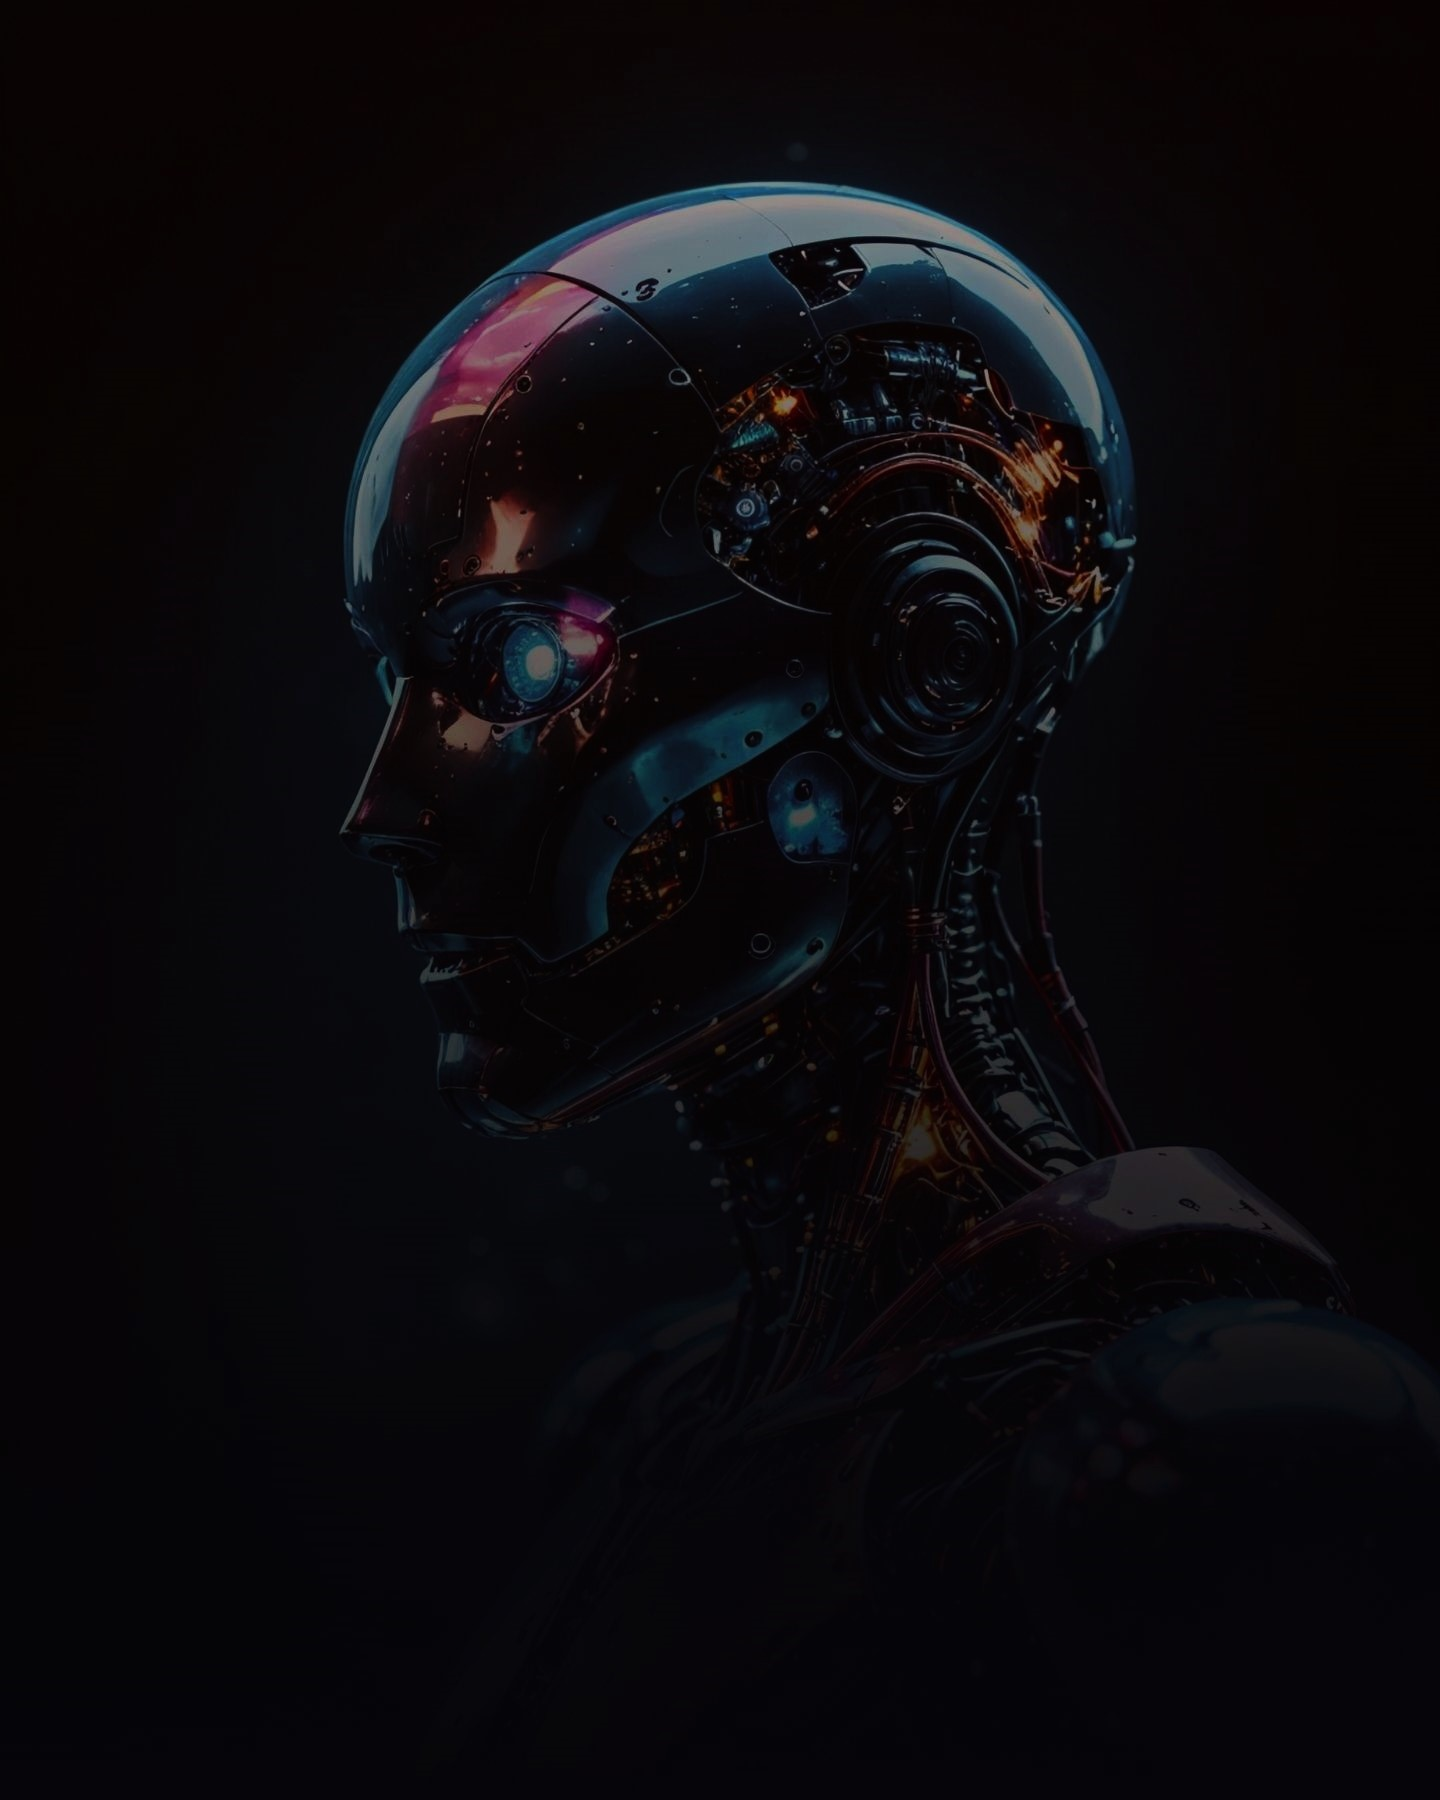
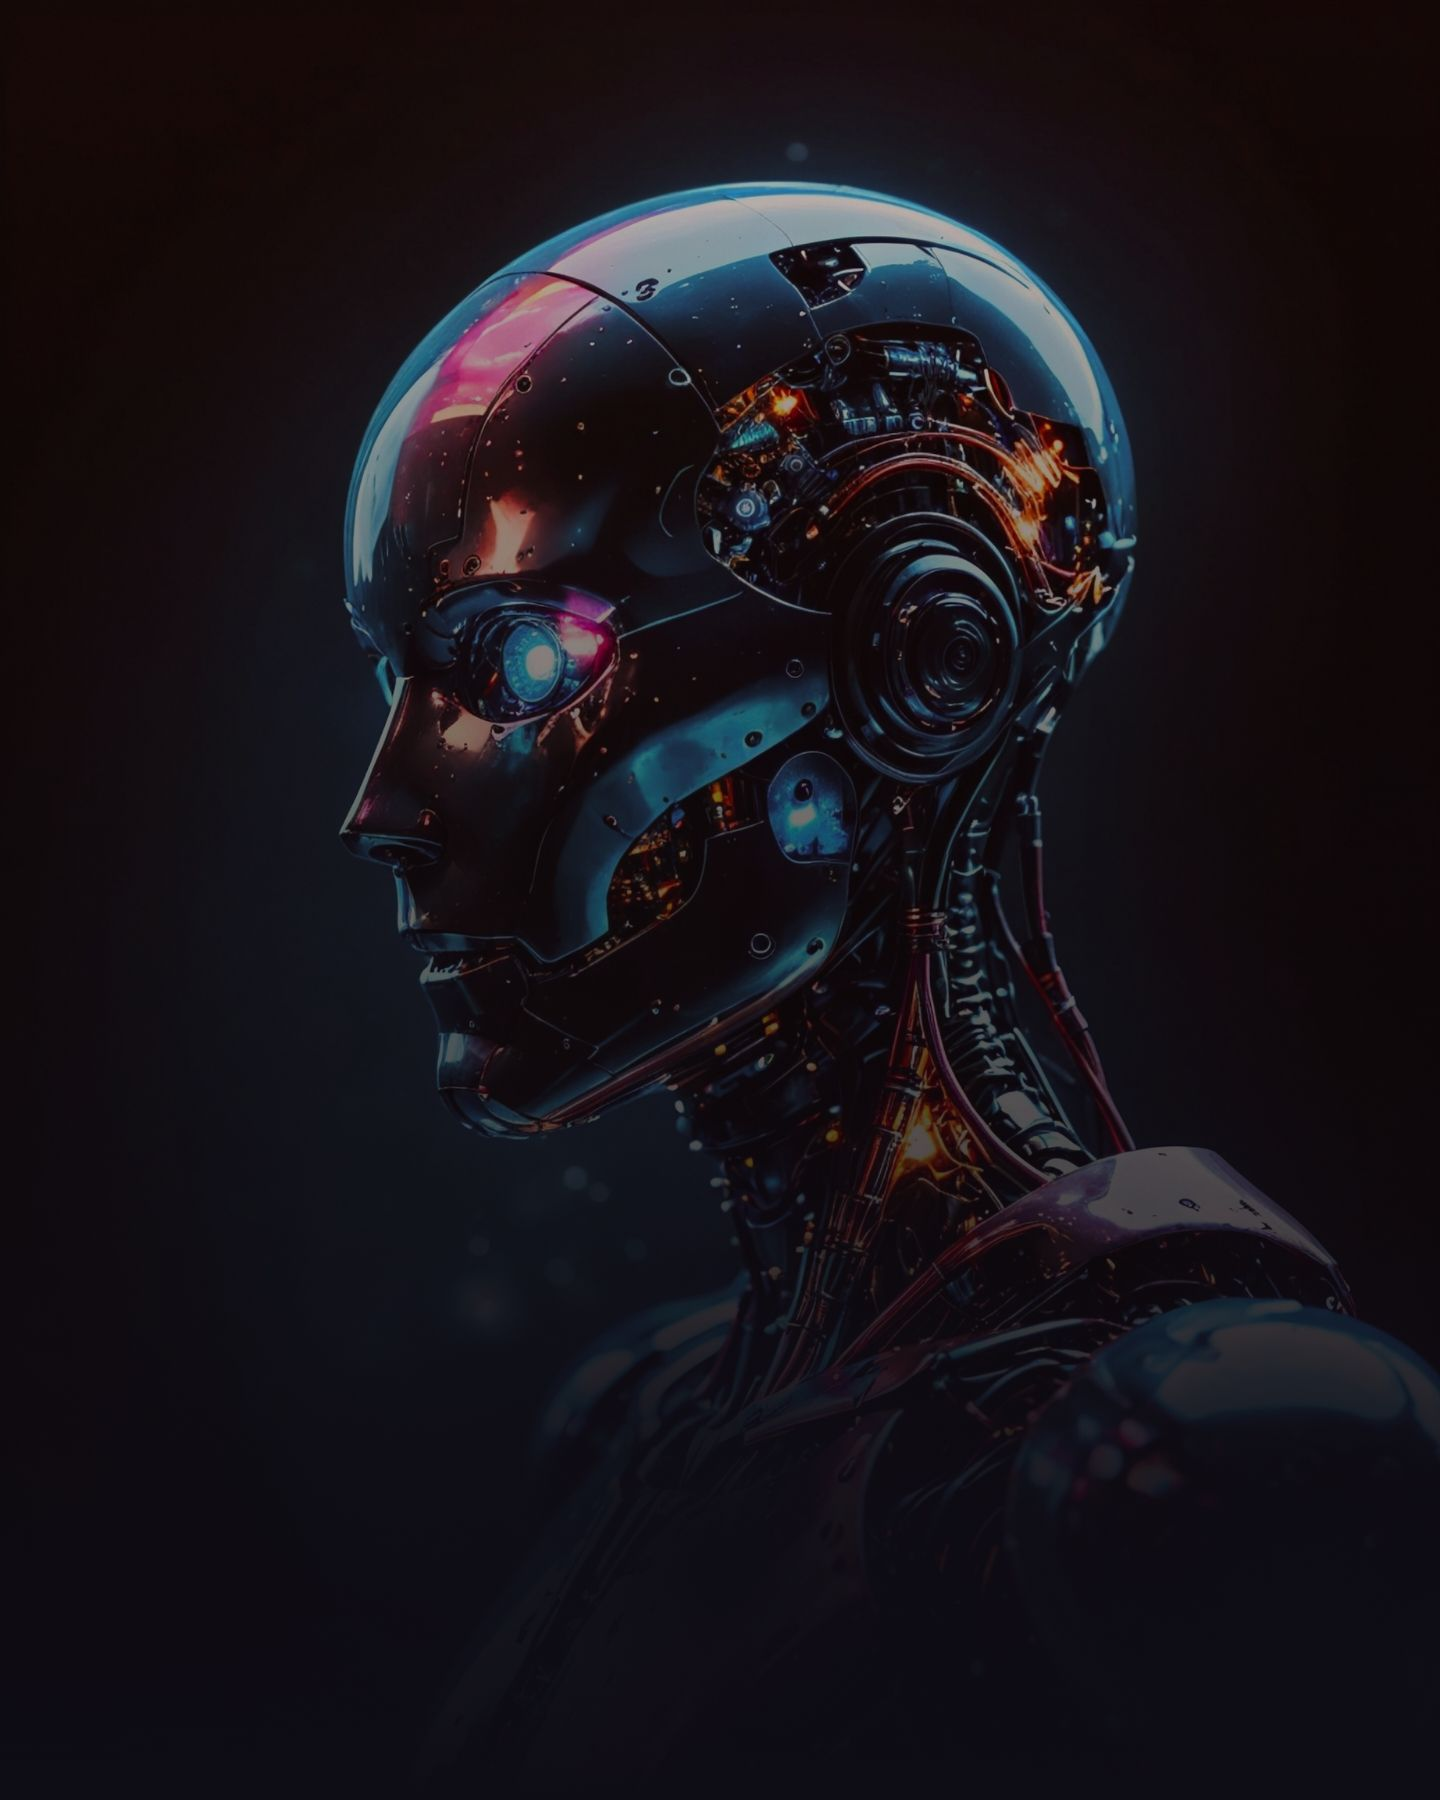
Project Bg Change 2

diff --git a/src/components/ui/Lamp.jsx b/src/components/ui/Lamp.jsx
@@ -22,7 +22,7 @@ const LampContainer = ({ children, className }) => {
                     style={{
                         backgroundImage: `conic-gradient(var(--conic-position), var(--tw-gradient-stops))`,
                     }}
-                    className="absolute inset-auto right-1/2 h-56 overflow-visible w-[30rem] bg-gradient-conic from-purple-500 via-transparent to-transparent text-white [--conic-position:from_70deg_at_center_top]"
+                    className="absolute inset-auto right-1/2 h-56 overflow-visible w-[30rem] bg-gradient-conic from-[#37B3BF] via-transparent to-transparent text-white [--conic-position:from_70deg_at_center_top]"
                 >
                     <div className="absolute  w-[100%] left-0 bg-slate-950 h-40 bottom-0 z-20 [mask-image:linear-gradient(to_top,white,transparent)]" />
                     <div className="absolute  w-40 h-[100%] left-0 bg-slate-950  bottom-0 z-20 [mask-image:linear-gradient(to_right,white,transparent)]" />
@@ -38,14 +38,14 @@ const LampContainer = ({ children, className }) => {
                     style={{
                         backgroundImage: `conic-gradient(var(--conic-position), var(--tw-gradient-stops))`,
                     }}
-                    className="absolute inset-auto left-1/2 h-56 w-[30rem] bg-gradient-conic from-transparent via-transparent to-purple-500 text-white [--conic-position:from_290deg_at_center_top]"
+                    className="absolute inset-auto left-1/2 h-56 w-[30rem] bg-gradient-conic from-transparent via-transparent to-[#37B3BF] text-white [--conic-position:from_290deg_at_center_top]"
                 >
                     <div className="absolute  w-40 h-[100%] right-0 bg-slate-950  bottom-0 z-20 [mask-image:linear-gradient(to_left,white,transparent)]" />
                     <div className="absolute  w-[100%] right-0 bg-slate-950 h-40 bottom-0 z-20 [mask-image:linear-gradient(to_top,white,transparent)]" />
                 </motion.div>
                 <div className="absolute top-1/2 h-48 w-full translate-y-12 scale-x-150 bg-slate-950 blur-2xl"></div>
                 <div className="absolute top-1/2 z-50 h-48 w-full bg-transparent opacity-10 backdrop-blur-md"></div>
-                <div className="absolute inset-auto z-50 h-36 w-[28rem] -translate-y-1/2 rounded-full bg-purple-500 opacity-50 blur-3xl"></div>
+                <div className="absolute inset-auto z-50 h-36 w-[28rem] -translate-y-1/2 rounded-full bg-[#37B3BF] opacity-50 blur-3xl"></div>
                 <motion.div
                     initial={{ width: "8rem" }}
                     whileInView={{ width: "16rem" }}
@@ -54,7 +54,7 @@ const LampContainer = ({ children, className }) => {
                         duration: 0.8,
                         ease: "easeInOut",
                     }}
-                    className="absolute inset-auto z-30 h-36 w-64 -translate-y-[6rem] rounded-full bg-purple-400 blur-2xl"
+                    className="absolute inset-auto z-30 h-36 w-64 -translate-y-[6rem] rounded-full bg-[#43b7c1] blur-2xl"
                 ></motion.div>
                 <motion.div
                     initial={{ width: "15rem" }}
@@ -64,7 +64,7 @@ const LampContainer = ({ children, className }) => {
                         duration: 0.8,
                         ease: "easeInOut",
                     }}
-                    className="absolute inset-auto z-50 h-0.5 w-[30rem] -translate-y-[7rem] bg-purple-400 "
+                    className="absolute inset-auto z-50 h-0.5 w-[30rem] -translate-y-[7rem] bg-[#37B3BF] "
                 ></motion.div>
 
                 <div className="absolute inset-auto z-40 h-44 w-full -translate-y-[12.5rem] bg-slate-950 "></div>

diff --git a/src/pages/AboutPage.jsx b/src/pages/AboutPage.jsx
@@ -13,7 +13,7 @@ const AboutPage = () => {
 
     return (
         <div className=" flex flex-col gap-10 overflow-hidden pb-5 lg:pb-1 md:pb-1">
-            <div className="absolute -top-[64%] left-1/2 w-[100%] -translate-x-1/2 md:-top-[46%] md:w-[100%] lg:-top-[104%] -z-50 bg-no-repeat ">
+            <div className="absolute -top-[64%] left-1/2 w-[100%] -translate-x-1/2 md:-top-[46%] md:w-[100%] lg:-top-[85%] -z-50 bg-no-repeat opacity-45 ">
                 <img
                     src={heroBackground}
                     className="w-full"
@@ -56,7 +56,7 @@ const AboutPage = () => {
                 <div className="flex  items-center justify-self-center row-start-1 md:visible lg:col-start-2 lg:col-end-3 ">
                     <span className="relative flex shrink-0 overflow-hidden rounded-full size-[17rem] md:size-[22rem] lg:size-[30rem] z-20">
                         <img
-                            className="aspect-square h-full w-full object-cover bg-opacity-20 bg-purple-300 dark:bg-opacity-20 shadow-2xl backdrop-filter backdrop-blur-[3px] shekhar"
+                            className="aspect-square h-full w-full object-cover bg-opacity-20 bg-[#37B3BF] dark:bg-opacity-20 shadow-2xl backdrop-filter backdrop-blur-[3px] shekhar"
                             alt="Shekhar Hans"
                             src={Image}
                         />
@@ -64,10 +64,10 @@ const AboutPage = () => {
                 </div>
 
                 <div className="absolute top-56 right-0 w-[100%] h-[100%] overflow-hidden  invisible lg:visible -z-10">
-                    <span className="rotate-[90deg] text-purple-300/45 font-poppins font-bold text-[15rem] absolute top-[27rem] right-[-13rem]  ">
+                    <span className="rotate-[90deg] text-[#37B3BF]/45 font-poppins font-bold text-[15rem] absolute top-[27rem] right-[-13rem]  ">
                         About
                     </span>
-                    <span className="rotate-[90deg] text-purple-300/45 font-poppins font-bold text-[12rem] absolute top-[18rem] lg:right-[20rem]">
+                    <span className="rotate-[90deg] text-[#37B3BF]/45 font-poppins font-bold text-[12rem] absolute top-[18rem] lg:right-[20rem]">
                         Me
                     </span>
                 </div>

diff --git a/src/components/design/Hero.jsx b/src/components/design/Hero.jsx
@@ -34,10 +34,10 @@ export const BottomLine = () => {
 export const Rings = () => {
     return (
         <>
-            <div className="absolute top-1/2 left-1/2 w-[65.875rem] aspect-square border border-n-2/10 rounded-full -translate-x-1/2 -translate-y-1/2" />
-            <div className="absolute top-1/2 left-1/2 w-[51.375rem] aspect-square border border-n-2/10 rounded-full -translate-x-1/2 -translate-y-1/2" />
-            <div className="absolute top-1/2 left-1/2 w-[36.125rem] aspect-square border border-n-2/10 rounded-full -translate-x-1/2 -translate-y-1/2" />
-            <div className="absolute top-1/2 left-1/2 w-[23.125rem] aspect-square border border-n-2/10 rounded-full -translate-x-1/2 -translate-y-1/2" />
+            <div className="absolute top-1/2 left-1/2 w-[65.875rem] aspect-square border border-n-1/5 rounded-full -translate-x-1/2 -translate-y-1/2" />
+            <div className="absolute top-1/2 left-1/2 w-[51.375rem] aspect-square border border-n-1/10 rounded-full -translate-x-1/2 -translate-y-1/2" />
+            <div className="absolute top-1/2 left-1/2 w-[36.125rem] aspect-square border border-n-1/10 rounded-full -translate-x-1/2 -translate-y-1/2" />
+            <div className="absolute top-1/2 left-1/2 w-[23.125rem] aspect-square border border-n-1/10 rounded-full -translate-x-1/2 -translate-y-1/2" />
         </>
     );
 };

diff --git a/src/components/Enter.jsx b/src/components/Enter.jsx
@@ -24,7 +24,7 @@ export default function Enter() {
                     className="mt-8 bg-gradient-to-br from-neutral-200 to-neutral-600 py-4 bg-clip-text text-center text-4xl font-medium tracking-tight text-transparent md:text-7xl"
                 >
                     Welcome to My Portfolio, <FlipWords words={words} />
-                    <span className="text-purple-300">!</span> <br />
+                    <span className="text-teal-300">!</span> <br />
                     <SoundOnHoverAndClick>
                         <Link to="/home">
                             <Button>Enter</Button>

diff --git a/src/components/ui/FlipWord.jsx b/src/components/ui/FlipWord.jsx
@@ -43,7 +43,7 @@ export const FlipWords = ({ words, duration = 3000, className }) => {
                     position: "absolute",
                 }}
                 className={cn(
-                    "z-10 inline-block relative text-left text-purple-300 dark:text-neutral-100 px-2",
+                    "z-10 inline-block relative text-left text-teal-300 dark:text-neutral-100 px-2",
                     className
                 )}
                 key={currentWord}
